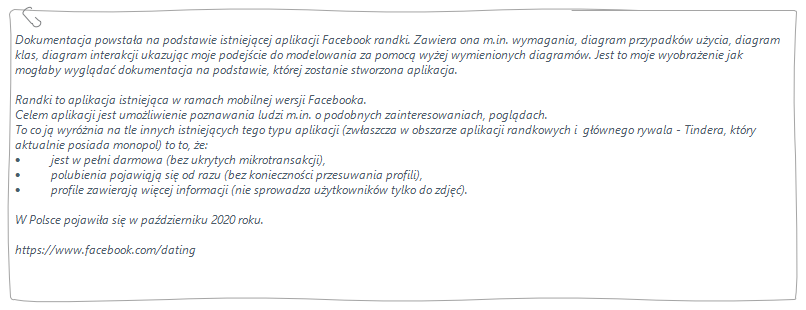
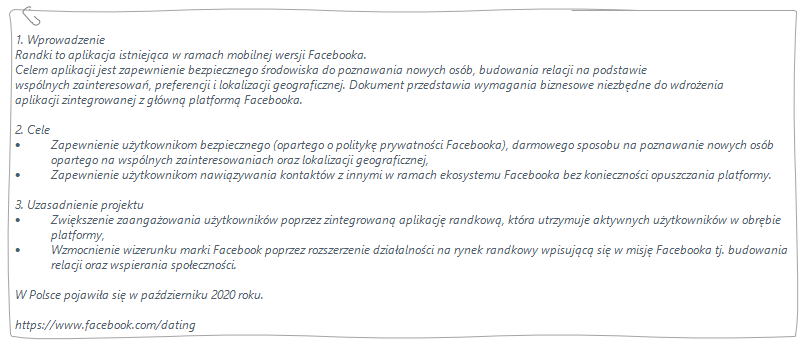
Poprawki opisu

Changed region(s): [[0.0, 0.0, 0.9926, 0.871], [0.0, 0.929, 0.9926, 0.9871]]

diff --git a/EARoot/EA4/EA60.htm b/EARoot/EA4/EA60.htm
@@ -42,7 +42,7 @@ function nameClassifier(name, separator)
 		</tr>
 		<tr>
 			<td class="ObjectDetailsTopic">Modified:</td>
-			<td class="ObjectDetailsValue">27.10.2024 17:31:23</td>
+			<td class="ObjectDetailsValue">07.12.2024 15:18:01</td>
 		</tr>
 		<tr style="height: 10px"><td colspan="2"></td></tr>
 		<tr>
@@ -91,10 +91,10 @@ function nameClassifier(name, separator)
 		</tr>
 		<tr id="adv01" style="display: none;">
 			<td class="ObjectDetailsTopic" style="padding-left: 18px;">Appears In:</td>
-			<td class="ObjectDetailsValue"><a href="EA57.htm">Opis systemu</a></td>
+			<td class="ObjectDetailsValue"><a href="EA57.htm">Opis</a></td>
 		</tr>
 	</table>
-	<div class="ObjectDetailsNotes">Dokumentacja powsta&#322;a na podstawie istniej&#261;cej aplikacji Facebook randki. Zawiera ona m.in. wymagania, diagram przypadk&#243;w u&#380;ycia, diagram klas, diagram interakcji ukazuj&#261;c moje podej&#347;cie do modelowania za pomoc&#261; wy&#380;ej wymienionych diagram&#243;w. Jest to moje wyobra&#380;enie jak mog&#322;aby wygl&#261;da&#263; dokumentacja na podstawie, kt&#243;rej zostanie stworzona aplikacja.&lt;br/&gt;&lt;br/&gt;Randki to aplikacja istniej&#261;ca w ramach mobilnej wersji Facebooka. &lt;br/&gt;Celem aplikacji jest umo&#380;liwienie poznawania ludzi m.in. o podobnych zainteresowaniach, pogl&#261;dach.&lt;br/&gt;To co j&#261; wyr&#243;&#380;nia na tle innych istniej&#261;cych tego typu aplikacji (zw&#322;aszcza w obszarze aplikacji randkowych i&#160;&#160;g&#322;&#243;wnego rywala - Tindera, kt&#243;ry aktualnie posiada monopol) to to, &#380;e:&lt;br/&gt;&lt;ul&gt;<br />&lt;li&gt;jest w pe&#322;ni darmowa (bez ukrytych mikrotransakcji),&lt;/li&gt;&lt;/ul&gt;<br />&lt;ul&gt;<br />&lt;li&gt;polubienia pojawi&#261;j&#261; si&#281; od razu (bez konieczno&#347;ci przesuwania profili),&lt;/li&gt;&lt;li&gt;profile zawieraj&#261; wi&#281;cej informacji (nie sprowadza u&#380;ytkownik&#243;w tylko do zdj&#281;&#263;).&lt;/li&gt;&lt;/ul&gt;<br />&lt;br/&gt;W Polsce pojawi&#322;a si&#281; w pa&#378;dzierniku 2020 roku. &lt;br/&gt;&lt;br/&gt;https://www.facebook.com/dating&lt;br/&gt;</div>
+	<div class="ObjectDetailsNotes">1. Wprowadzenie&lt;br/&gt;Randki to aplikacja istniej&#261;ca w ramach mobilnej wersji Facebooka. &lt;br/&gt;Celem aplikacji jest zapewnienie bezpiecznego &#347;rodowiska do poznawania nowych os&#243;b, budowania relacji na podstawie&lt;br/&gt;wsp&#243;lnych zainteresowa&#324;, preferencji i lokalizacji geograficznej. Dokument przedstawia wymagania biznesowe niezb&#281;dne do wdro&#380;enia &lt;br/&gt;aplikacji zintegrowanej z g&#322;&#243;wn&#261; platform&#261; Facebooka.&lt;br/&gt;&lt;br/&gt;2. Cele&lt;br/&gt;&lt;ul&gt;<br />&lt;li&gt;Zapewnienie u&#380;ytkownikom bezpiecznego (opartego o polityk&#281; prywatno&#347;ci Facebooka), darmowego sposobu na poznawanie nowych os&#243;b opartego na wsp&#243;lnych zainteresowaniach oraz lokalizacji geograficznej,&lt;/li&gt;&lt;/ul&gt;<br />&lt;ul&gt;<br />&lt;li&gt;Zapewnienie u&#380;ytkownikom nawi&#261;zywania kontakt&#243;w z innymi w ramach ekosystemu Facebooka bez konieczno&#347;ci opuszczania platformy.&lt;/li&gt;&lt;/ul&gt;<br />&lt;br/&gt;3. Uzasadnienie projektu&lt;br/&gt;&lt;ul&gt;<br />&lt;li&gt;Zwi&#281;kszenie zaanga&#380;owania u&#380;ytkownik&#243;w poprzez zintegrowan&#261; aplikacj&#281; randkow&#261;, kt&#243;ra utrzymuje aktywnych u&#380;ytkownik&#243;w w obr&#281;bie platformy,&lt;/li&gt;&lt;/ul&gt;<br />&lt;ul&gt;<br />&lt;li&gt;Wzmocnienie wizerunku marki Facebook poprzez rozszerzenie dzia&#322;alno&#347;ci na rynek randkowy wpisuj&#261;c&#261; si&#281; w misj&#281; Facebooka tj. budowania relacji oraz wspierania spo&#322;eczno&#347;ci.&lt;/li&gt;&lt;/ul&gt;<br />&lt;br/&gt;W Polsce pojawi&#322;a si&#281; w pa&#378;dzierniku 2020 roku. &lt;br/&gt;&lt;br/&gt;https://www.facebook.com/dating&lt;br/&gt;</div>
 
 <div class="pageFooter"></div>
  

diff --git a/eng/EARoot/EA4/EA60.htm b/eng/EARoot/EA4/EA60.htm
@@ -42,7 +42,7 @@ function nameClassifier(name, separator)
 		</tr>
 		<tr>
 			<td class="ObjectDetailsTopic">Modified:</td>
-			<td class="ObjectDetailsValue">27.10.2024 17:09:22</td>
+			<td class="ObjectDetailsValue">07.12.2024 15:27:45</td>
 		</tr>
 		<tr style="height: 10px"><td colspan="2"></td></tr>
 		<tr>
@@ -94,7 +94,7 @@ function nameClassifier(name, separator)
 			<td class="ObjectDetailsValue"><a href="EA57.htm">Description</a></td>
 		</tr>
 	</table>
-	<div class="ObjectDetailsNotes">The documentation was created based on the existing Facebook dating application. It includes, among other things, requirements, use case diagrams, class diagrams, and interaction diagrams, showcasing my approach to modeling using the aforementioned diagrams. This is my vision of what the documentation could look like for developing the application.&lt;br/&gt;&lt;br/&gt;Facebook dating is an application available within the mobile version of Facebook.&lt;br/&gt;The goal of the application is to help people connect, including those with similar interests and views. What sets it apart from other existing applications of this kind (especially in the realm of dating applications and its main competitor, Tinder, which currently holds a monopoly) is that:&lt;br/&gt;&lt;ul&gt;<br />&lt;li&gt;It is completely free (with no hidden microtransactions),&lt;/li&gt;&lt;/ul&gt;<br />&lt;ul&gt;<br />&lt;li&gt;Likes appear instantly (no need to swipe through profiles),&lt;/li&gt;&lt;/ul&gt;<br />&lt;ul&gt;<br />&lt;li&gt;Profiles contain more information (users are not reduced to just photos).&lt;/li&gt;&lt;/ul&gt;<br />&lt;br/&gt;The application was introduced in Poland in October 2020.&lt;br/&gt;&lt;br/&gt;https://www.facebook.com/dating&lt;br/&gt;</div>
+	<div class="ObjectDetailsNotes">1. Introduction&lt;br/&gt;Facebook dating is an application within the mobile version of Facebook.&#160;&#160;&lt;br/&gt;The goal of the application is to provide a safe environment for meeting new people and building relationships based on shared interests, preferences, and geographic location. This document outlines the business requirements necessary for the implementation of the application integrated with the main Facebook platform.&lt;br/&gt;&lt;br/&gt;2. Objectives &lt;br/&gt;&lt;ul&gt;<br />&lt;li&gt;To provide users with a safe (based on Facebook&#39;s privacy policy), free way to meet new people based on shared interests and geographic location,&lt;/li&gt;&lt;/ul&gt;<br />&lt;ul&gt;<br />&lt;li&gt;To enable users to connect with others within the Facebook ecosystem without leaving the platform.&lt;/li&gt;&lt;/ul&gt;<br />&lt;br/&gt;3. Project Justification&lt;br/&gt;&lt;ul&gt;<br />&lt;li&gt;Increasing user engagement through an integrated dating applicaion that keeps active users within the platform,&lt;/li&gt;&lt;/ul&gt;<br />&lt;ul&gt;<br />&lt;li&gt;Strengthening the Facebook brand image by expanding into the dating market, aligning with Facebook&#39;s mission to build relationships and support communities.&lt;/li&gt;&lt;/ul&gt;<br />&lt;br/&gt;The app launched in Poland in October 2020.&#160;&#160;&lt;br/&gt;&lt;br/&gt;https://www.facebook.com/dating&lt;br/&gt;&lt;br/&gt;</div>
 
 <div class="pageFooter"></div>
  

diff --git a/EARoot/EA4/EA57.htm b/EARoot/EA4/EA57.htm
@@ -2,7 +2,7 @@
 <html xmlns="http://www.w3.org/1999/xhtml">
 <head>
 <meta http-equiv="Content-Type" content="text/html; charset=UTF-8" />
-<title>Opis systemu</title>
+<title>Opis</title>
 <link href="../../css/ea.css" rel="stylesheet" type="text/css" />
 <script>
 function initPage(src) {	
@@ -36,10 +36,10 @@ function nameClassifier(name, separator)
 <img src="EA58.png" usemap="#EA58" border="0" />
 
 <MAP NAME="EA58">
-<area shape="rect" coords="10,10,796,300" href="EA60.htm" target="_self">
+<area shape="rect" coords="10,10,796,337" href="EA60.htm" target="_self">
 </MAP>
 
-	<div class="ObjectTitle">Opis systemu : Logical diagram</div>
+	<div class="ObjectTitle">Opis : Logical diagram</div>
 	<table border="0" cellpadding="0" cellspacing="0" class="ObjectDetails">
 		<tr>
 			<td width="15%" class="ObjectDetailsTopic">Created:</td>
@@ -47,7 +47,7 @@ function nameClassifier(name, separator)
 		</tr>
 		<tr>
 			<td width="15%" class="ObjectDetailsTopic">Modified:</td>
-			<td width="85%" class="ObjectDetailsValue">28.01.2022 20:04:32</td>
+			<td width="85%" class="ObjectDetailsValue">07.12.2024 15:22:14</td>
 		</tr>
 		<tr style="padding-top: 10px;">
 			<td width="15%" class="ObjectDetailsTopic"><img src="../../images/plus03.gif" align="absmiddle" id="proj" onclick="parent.toggleData(this.id)" />Project:</td>

diff --git a/EARoot/EA4/EA59.htm b/EARoot/EA4/EA59.htm
@@ -2,7 +2,7 @@
 <html xmlns="http://www.w3.org/1999/xhtml">
 <head>
 <meta http-equiv="Content-Type" content="text/html; charset=UTF-8" />
-<title>Opis systemu</title>
+<title>Opis</title>
 <link href="../../css/ea.css" rel="stylesheet" type="text/css" />
 <script>
 function initPage(src) {	
@@ -34,7 +34,7 @@ function nameClassifier(name, separator)
 <div class="pageHeader"></div>
 <div class="PageBody">
 	<div id="name_classifier" style="display: none;"></div>
-	<span class="ObjectTitle"><script type="text/javascript">document.write(nameClassifier("Opis systemu", " : "))</script>  : Public   Package</span>
+	<span class="ObjectTitle"><script type="text/javascript">document.write(nameClassifier("Opis", " : "))</script>  : Public   Package</span>
 	<table border="0" cellpadding="0" cellspacing="0" class="ObjectDetails">
 		<tr>
 			<td width="15%" class="ObjectDetailsTopic">Created:</td>
@@ -42,7 +42,7 @@ function nameClassifier(name, separator)
 		</tr>
 		<tr>
 			<td class="ObjectDetailsTopic">Modified:</td>
-			<td class="ObjectDetailsValue">28.03.2021 11:09:03</td>
+			<td class="ObjectDetailsValue">07.12.2024 15:19:31</td>
 		</tr>
 		<tr style="height: 10px"><td colspan="2"></td></tr>
 		<tr>
